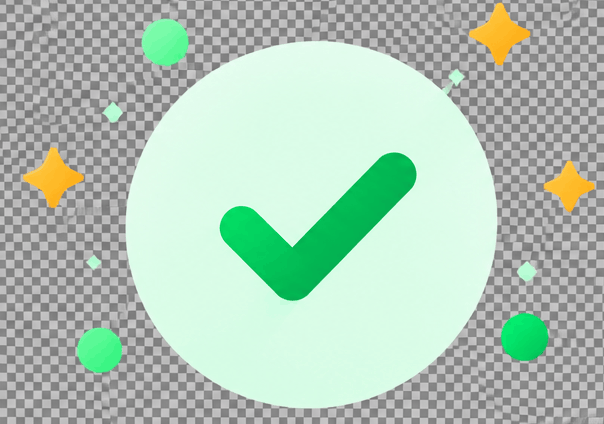
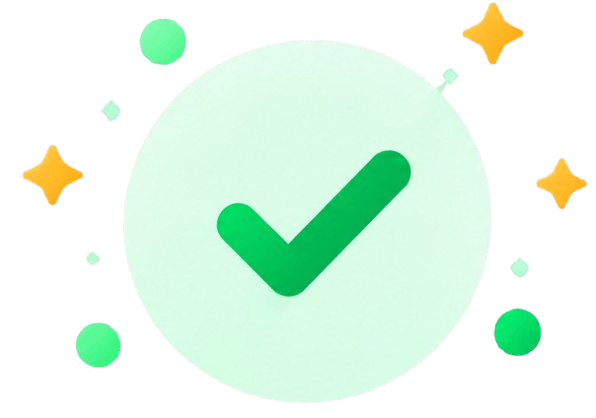
create a UI of successfully screen

diff --git a/lib/views/screens/auth_screens/forget_password/successfully_screen/successfully_screen.dart b/lib/views/screens/auth_screens/forget_password/successfully_screen/successfully_screen.dart
@@ -1,0 +1,91 @@
+import 'package:flutter/material.dart';
+import 'package:flutter_screenutil/flutter_screenutil.dart';
+import 'package:vlr/services/app_them_helper.dart';
+import 'package:vlr/services/constants.dart';
+import 'package:vlr/services/custom_text.dart';
+import 'package:vlr/services/theme.dart';
+import 'package:vlr/views/base/custom_button.dart';
+import 'package:vlr/views/base/custom_image.dart';
+
+class SuccessfullyScreen extends StatelessWidget {
+  final String buttonTitle;
+  final String title;
+  final String subTitle;
+  final Function() onTap;
+  const SuccessfullyScreen(
+      {super.key,
+      required this.buttonTitle,
+      required this.title,
+      required this.subTitle,
+      required this.onTap});
+
+  @override
+  Widget build(BuildContext context) {
+    return Scaffold(
+      bottomNavigationBar: Padding(
+        padding: AppConstants.screenPadding,
+        child: Column(
+          mainAxisSize: MainAxisSize.min,
+          children: [
+            CustomButton(
+              height: 65.h,
+              radius: 16.r,
+              gradient: context.buttonGradient,
+              onTap: onTap,
+              child: CustomText(
+                buttonTitle,
+                textAlign: TextAlign.center,
+                style: Helper(context).textTheme.bodyMedium?.copyWith(
+                      fontSize: 16.sp,
+                      color: white,
+                    ),
+              ),
+            ),
+          ],
+        ),
+      ),
+      appBar: AppBar(
+        centerTitle: true,
+        title: CustomImage(
+          path: context.imageAppLogoWithName,
+          height: 40.h,
+          width: 110.w,
+          fit: BoxFit.contain,
+        ),
+      ),
+      body: Padding(
+        padding: AppConstants.screenPadding,
+        child: Center(
+          child: Column(
+            mainAxisAlignment: MainAxisAlignment.center,
+            children: [
+              CustomImage(
+                path: context.imageCheck,
+                height: MediaQuery.of(context).size.height / 6,
+              ),
+              sizedBoxHeight(height: 30),
+              CustomText(
+                title,
+                textAlign: TextAlign.center,
+                overflow: TextOverflow.clip,
+                style: Helper(context).textTheme.titleMedium?.copyWith(
+                      fontSize: 25.sp,
+                    ),
+              ),
+              sizedBoxHeight(height: 12),
+              CustomText(
+                subTitle,
+                textAlign: TextAlign.center,
+                overflow: TextOverflow.clip,
+                style: Helper(context)
+                    .textTheme
+                    .bodyMedium
+                    ?.copyWith(fontSize: 14.sp, color: context.greyText),
+              ),
+            ],
+          ),
+        ),
+      ),
+    );
+  }
+}

diff --git a/lib/views/screens/auth_screens/forget_password/otp_screen/otp_screen.dart b/lib/views/screens/auth_screens/forget_password/otp_screen/otp_screen.dart
@@ -13,6 +13,8 @@ import 'package:vlr/services/theme.dart';
 import 'package:vlr/views/base/custom_button.dart';
 import 'package:vlr/views/base/custom_image.dart';
 import 'package:vlr/views/screens/auth_screens/forget_password/enter_email_screen/forget_flow_screen.dart';
+import 'package:vlr/views/screens/auth_screens/forget_password/successfully_screen/successfully_screen.dart';
+import 'package:vlr/views/screens/auth_screens/login_screen.dart';
 import 'package:vlr/views/widget/text_box/app_text_box.dart';
 
 class OtpScreen extends StatefulWidget {
@@ -259,6 +261,7 @@ class _OtpScreenState extends State<OtpScreen> {
     );
   }
 
+//* Verify OTP button and Create new Password screen UI
   CustomButton verifyOpt(BuildContext context, AuthController authController) {
     return CustomButton(
       height: 65.h,
@@ -335,7 +338,22 @@ class _OtpScreenState extends State<OtpScreen> {
                   radius: 16.r,
                   gradient: context.buttonGradient,
                   onTap: () {
-                    navigate(context: context, page: const OtpScreen());
+                    navigate(
+                      context: context,
+                      page: SuccessfullyScreen(
+                        buttonTitle: "Go to Login",
+                        title: "Password Updated Successfully!",
+                        subTitle:
+                            "Your password has been reset successfully. You can now login with your new password.",
+                        onTap: () {
+                          navigate(
+                            context: context,
+                            isRemoveUntil: true,
+                            page: const LoginScreen(),
+                          );
+                        },
+                      ),
+                    );
                   },
                   child: CustomText(
                     "Update Password",

diff --git a/lib/views/screens/auth_screens/login_screen.dart b/lib/views/screens/auth_screens/login_screen.dart
@@ -10,7 +10,7 @@ import 'package:vlr/services/theme.dart';
 import 'package:vlr/views/base/custom_button.dart';
 import 'package:vlr/views/base/custom_image.dart';
 import 'package:vlr/views/screens/auth_screens/forget_password/enter_email_screen/forget_flow_screen.dart';
-import 'package:vlr/views/screens/auth_screens/forget_password/enter_email_screen/otp_screen.dart';
+import 'package:vlr/views/screens/auth_screens/forget_password/otp_screen/otp_screen.dart';
 import 'package:vlr/views/screens/auth_screens/register_screen.dart';
 import 'package:vlr/views/screens/dashboard/dashboard_screen.dart';
 import 'package:vlr/views/widget/text_box/app_text_box.dart';

diff --git a/lib/views/screens/auth_screens/register_screen.dart b/lib/views/screens/auth_screens/register_screen.dart
@@ -10,7 +10,7 @@ import 'package:vlr/services/custom_text.dart';
 import 'package:vlr/services/theme.dart';
 import 'package:vlr/views/base/custom_button.dart';
 import 'package:vlr/views/base/custom_image.dart';
-import 'package:vlr/views/screens/auth_screens/forget_password/enter_email_screen/otp_screen.dart';
+import 'package:vlr/views/screens/auth_screens/forget_password/otp_screen/otp_screen.dart';
 import 'package:vlr/views/screens/auth_screens/login_screen.dart';
 import 'package:vlr/views/widget/text_box/app_text_box.dart';
 
